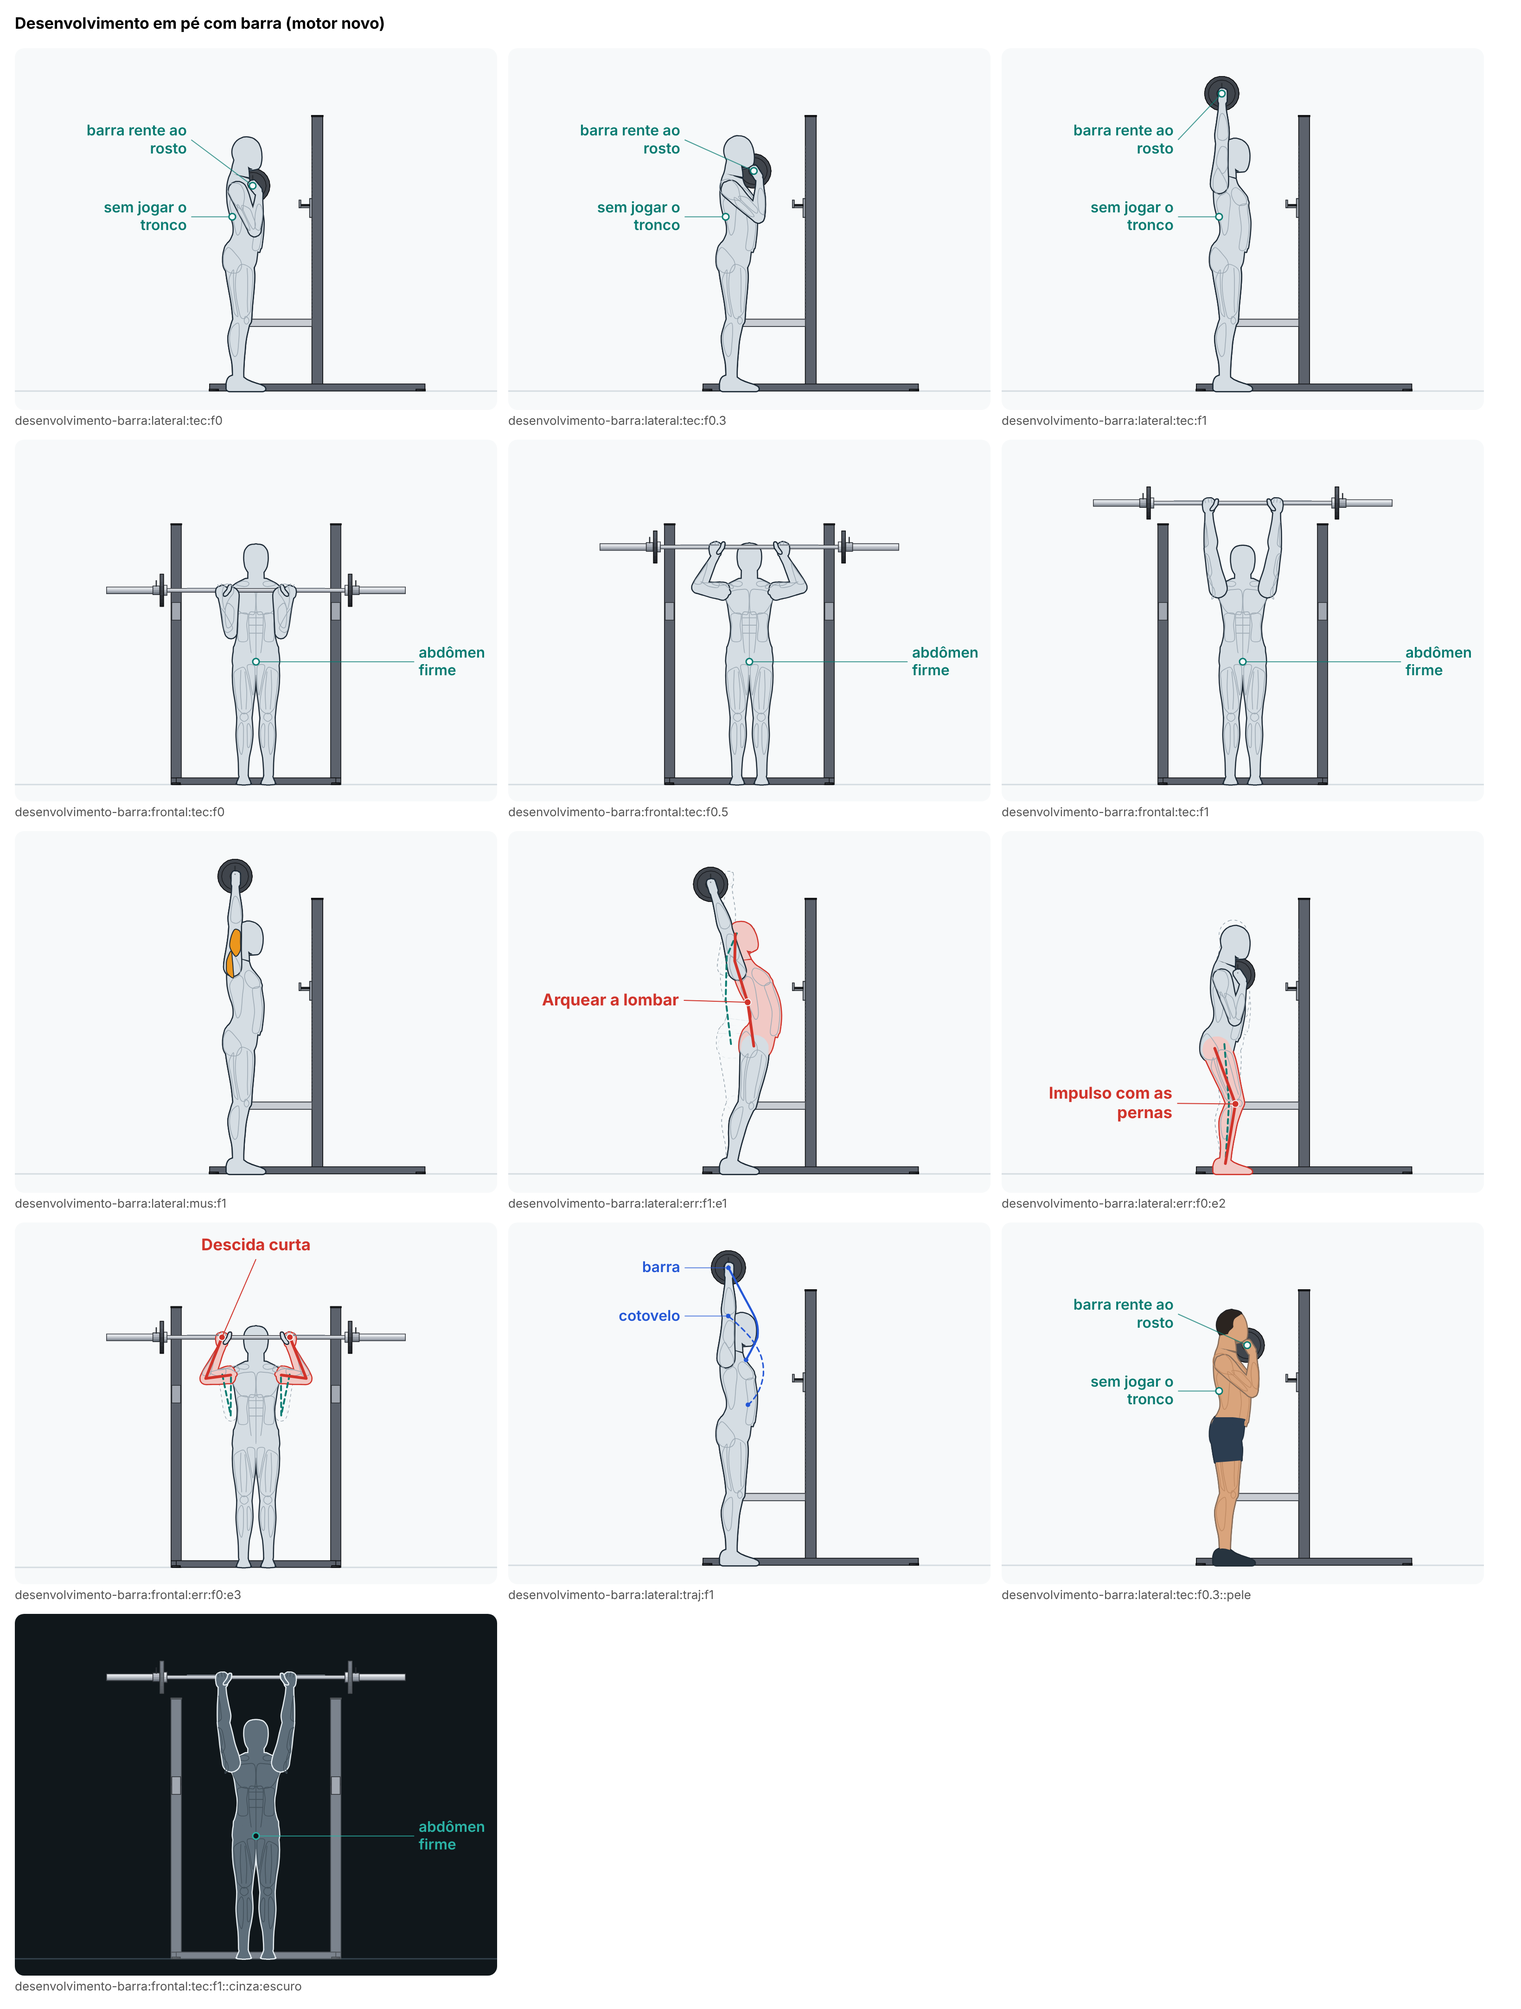
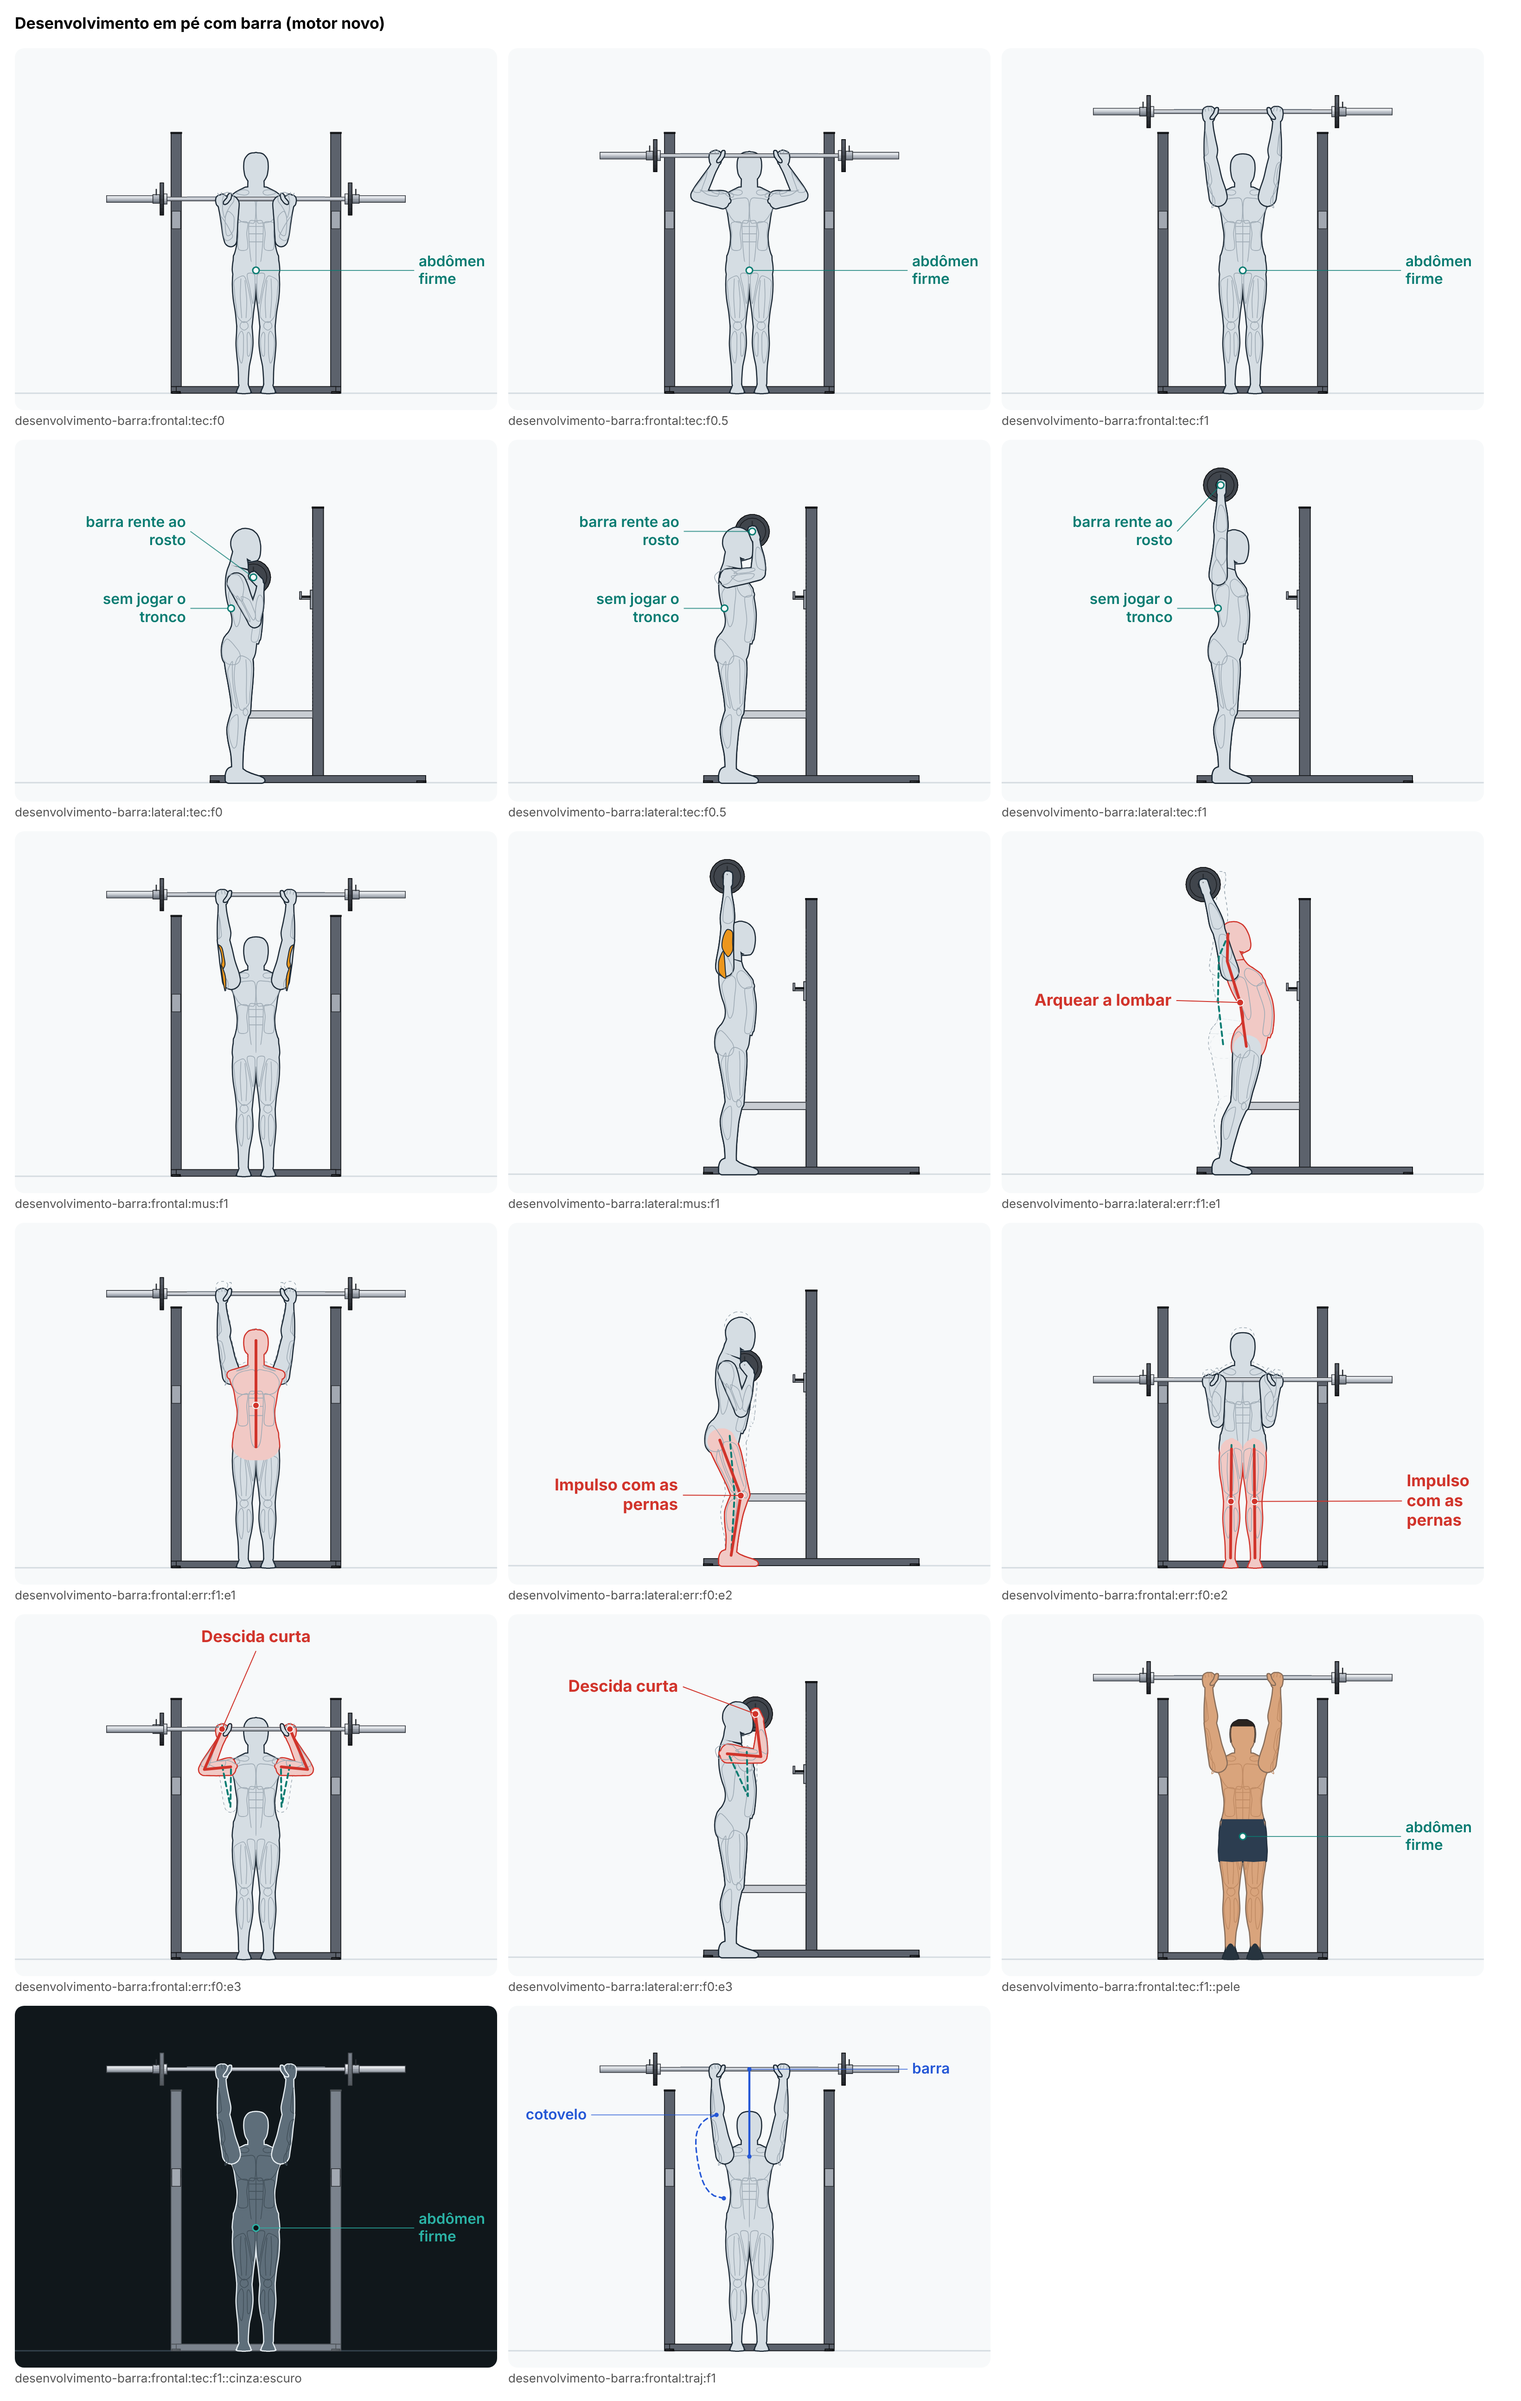
Apoia a barra do desenvolvimento em pé na pele densa do peito
Embaixo, a barra assentava entre os pontos de cada anel e entrava 1,3 cm no
peito. Agora ela para a 0,3 cm da pele densa, 1,3 cm mais à frente; o punho
dobra 45° e o cotovelo aponta menos para baixo, para os cotovelos ficarem um
pouco à frente da barra (0,8 cm). A regra barra-no-alto-do-peito mede na
pele densa quando a ficha tem barra.folgaNoPeito (as puxadas não mudam).
A ficha liga peso-fora-do-corpo.

Claude-Session: https://claude.ai/code/session_01YRzts8DBGbsca9onebcMt1

diff --git a/src/engine/novo/exercicios/desenvolvimento-barra.ts b/src/engine/novo/exercicios/desenvolvimento-barra.ts
@@ -26,7 +26,8 @@ import type { Corpo } from '../tabelas';
 import { obj } from '../tabelas';
 import { add, dirRef, mix, mul, noRef, norm, paraRef } from '../vec';
 import type { V3 } from '../vec';
-import { folgaDaBarra, primeiroToque } from './barra-nas-costas';
+import { primeiroToque } from './barra-nas-costas';
+import { folgaDaBarraNosPontos, peleDensa } from './com-barra-longa';
 import { dobrarOQuadril } from './dobrar-o-quadril';
 
 const F = fichaSchema.parse(ficha);
@@ -85,8 +86,10 @@ function emPe(corpo: Corpo, p: Pedido, local: V3, u: number): { e: Esq; alfa: nu
       centro = noRef(T, local);
       const braco = (k: Lado): PoseBraco => {
         const s = sinal(k);
-        // embaixo o cotovelo aponta para a frente e para baixo; em cima, para fora
-        const polo = norm(add(mul(dirRef(T, [s * 0.35, -0.55, 1]), 1 - u), mul(dirRef(T, [s, 0.1, 0.25]), u)));
+        // embaixo o cotovelo aponta para a frente e para baixo; em cima, para fora (correção de 19/11/2026: com a barra
+        // encostada no peito, e não dentro dele, ela fica 1,6 cm mais à frente, e o cotovelo, que apontava 0,55 para
+        // baixo, ficava 0,4 cm atrás dela; apontando 0,3 para baixo, com o punho dobrado 45°, fica 0,8 cm à frente)
+        const polo = norm(add(mul(dirRef(T, [s * 0.35, -f('cotovelo.poloParaBaixo'), 1]), 1 - u), mul(dirRef(T, [s, 0.1, 0.25]), u)));
         // a mão: a barra no meio da palma; embaixo o punho dobra para trás (a barra apoia na base da mão) e, em cima, fica
         // reto
         const b = f('punho.extensao') * (1 - u) * rad;
@@ -109,9 +112,17 @@ function pontas(corpo: Corpo): { baixo: V3; cima: V3 } {
   return calibragem(corpo, 'desenvolvimento-barra:pontas', () => {
     const y = -f('barra.peito');
     let zb = 14;
+    // Correção de 19/11/2026: a folga era medida contra os 12 pontos de cada anel do Boneco, e a barra assentava entre
+    // eles e entrava 1,3 cm no peito; agora é medida na pele densa (36 pontos por anel, com anéis entre os anéis), e a
+    // barra para a `barra.folgaNoPeito` cm dela
+    const meia = f('pegada.meia') - 4;
     for (let i = 0; i < 2; i++) {
       const e = emPe(corpo, certo(), [0, y, zb], 0).e;
-      zb = primeiroToque((z) => folgaDaBarra(e, noRef(e.torax, [0, y, z]), e.torax.x, ['tronco', 'pescoco'], f('pegada.meia') - 4).folga, 30, 0);
+      const pele = peleDensa(e, new Set(['tronco', 'pescoco']));
+      zb = primeiroToque((z) => {
+        const c = noRef(e.torax, [0, y, z]);
+        return folgaDaBarraNosPontos(pele, add(c, mul(e.torax.x, -meia)), add(c, mul(e.torax.x, meia))) - f('barra.folgaNoPeito');
+      }, 30, 0);
     }
     let cima: V3 = [0, 50, 0];
     for (let i = 0; i < 3; i++) {

diff --git a/src/engine/novo/regras/barra-no-suporte.ts b/src/engine/novo/regras/barra-no-suporte.ts
@@ -4,8 +4,9 @@
 import { f1, faixa } from '../conferir-util';
 import type { Regra } from '../conferir-util';
 import { folgaDaBarra, raioDaBarra } from '../exercicios/barra-nas-costas';
+import { folgaDaBarraNosPontos, peleDensa } from '../exercicios/com-barra-longa';
 import { obj } from '../tabelas';
-import { dist, dot, sub } from '../vec';
+import { add, dist, dot, mul, sub } from '../vec';
 
 const marca = (q: Parameters<Regra>[0][number], nome: string) => {
   const m = q.marcas[nome];
@@ -93,14 +94,20 @@ export const REGRAS_BARRA_NO_SUPORTE: Record<string, Regra> = {
     return { medido: `com a barra no peito, o topo das travas fica ${f1(folga)} cm abaixo dela, e a barra ${f1(zPonta - zb)} cm para dentro da ponta delas`, ok: folga > 0 && folga <= 4.5 && zb >= zFace && zb <= zPonta };
   },
   // ----- desenvolvimento em pé -----
-  'barra-no-alto-do-peito': (q, corpo) => {
+  'barra-no-alto-do-peito': (q, corpo, ex) => {
     const x = q[0]!;
     const b = marca(x, 'barra');
-    const fol = folgaDaBarra(x.esq, b, x.esq.torax.x, ['tronco', 'pescoco'], 21).folga;
+    // (acréscimo de 19/11/2026, só quando a ficha tem `barra.folgaNoPeito`: o desenvolvimento em pé com barra) a folga
+    // medida na pele densa, a mesma em que a animação apoia a barra; nos 12 pontos de cada anel, a barra que encosta na
+    // pele densa fica a 1,2 cm dos pontos, e a que encostava nos pontos entrava 1,3 cm no peito (regra peso-fora-do-corpo)
+    const densa = !!ex && 'barra.folgaNoPeito' in ex.ficha.param;
+    const fol = densa
+      ? folgaDaBarraNosPontos(peleDensa(x.esq, new Set(['tronco', 'pescoco'])), add(b, mul(x.esq.torax.x, -21)), add(b, mul(x.esq.torax.x, 21)))
+      : folgaDaBarra(x.esq, b, x.esq.torax.x, ['tronco', 'pescoco'], 21).folga;
     const ao = -dot(sub(b, x.esq.torax.o), x.esq.torax.y);
     const alto = corpo.m('altura.cervical') - corpo.m('altura.supraesternal');
     const frente = Math.min(x.esq.lado.R.cotovelo[2], x.esq.lado.L.cotovelo[2]) - b[2];
-    return { medido: `embaixo, a barra fica a ${f1(fol)} cm da pele do peito, ${f1(ao)} cm abaixo da base do pescoço ao longo do tronco (o alto do esterno fica a ${f1(alto)} cm); os cotovelos ficam ${f1(frente)} cm à frente dela`, ok: Math.abs(fol) <= 0.6 && Math.abs(ao - alto) <= 1.5 && frente > 0 };
+    return { medido: `embaixo, a barra fica a ${f1(fol)} cm da pele do peito${densa ? ' (pele densa)' : ''}, ${f1(ao)} cm abaixo da base do pescoço ao longo do tronco (o alto do esterno fica a ${f1(alto)} cm); os cotovelos ficam ${f1(frente)} cm à frente dela`, ok: Math.abs(fol) <= 0.6 && Math.abs(ao - alto) <= 1.5 && frente > 0 };
   },
   'barra-rente-ao-rosto': (q) => {
     let min = 1e9,

diff --git a/docs/revisoes/animacao-nova/lote-B1/desenvolvimento-barra.md b/docs/revisoes/animacao-nova/lote-B1/desenvolvimento-barra.md
@@ -65,3 +65,26 @@ Não há correção registrada para este exercício em `correcoes-ja-feitas.md`.
 - **O equilíbrio fica no limite** (o centro de massa anda até 4,9 cm à frente do meio do pé; o limite é 5 cm): é a barra indo para a frente em volta do rosto.
 - **O corpo fica menor no quadro de lado** que no agachamento: a barra em cima chega a 2,07 m e a anilha passa disso.
 - **O suporte é diferente do cartão de hoje** (gaiola × suporte aberto; ver `resumo-suporte.md`).
+
+## Correção de 19/11 (peso dentro do corpo)
+
+Depois do aviso do Gustavo na remada sem banco ("o halter tá puxando pra dentro do próprio corpo"), a regra `peso-fora-do-corpo` (a superfície do peso contra o volume do corpo, fora as mãos que seguram, no ciclo e em cada erro em 9 instantes; tolerância de 0,5 cm) e a checagem de pesos da conferência da pintura foram passadas em todas as animações com peso livre. Nesta, **embaixo, a barra entrava 1,3 cm no peito** (no começo do ciclo e dos erros "Arquear a lombar" e "Impulso com as pernas"). Ela era apoiada no primeiro toque contra os 12 pontos de cada anel do Boneco, e assentava entre eles.
+
+**A mudança.**
+
+- O primeiro toque passa a ser medido na pele densa (36 pontos por anel, com anéis entre os anéis), e a barra para a 0,3 cm dela (`barra.folgaNoPeito`): 1,3 cm mais à frente no tórax. Medida pela regra `peso-fora-do-corpo`, ela encosta sem entrar.
+- Com a barra mais à frente, os cotovelos ficavam 0,4 cm atrás dela (a ficha pede "um pouco à frente"). O punho dobra 45°, e não 40° (`punho.extensao`; medido, 53,6°, dentro da amplitude normal), e embaixo o cotovelo aponta 0,3 para baixo, e não 0,55 (`cotovelo.poloParaBaixo`): eles ficam 0,8 cm à frente da barra (eram 1,3 cm).
+- A regra `barra-no-alto-do-peito` (`regras/barra-no-suporte.ts`) ganhou um acréscimo, ligado só quando a ficha tem `barra.folgaNoPeito`: mede a folga na pele densa, a mesma em que a animação apoia a barra. Nos pontos dos anéis, a barra encostada na pele densa fica a 1,2 cm deles, e a regra (até 0,6 cm) falhava. As puxadas que usam a mesma regra não têm o campo e não mudam.
+- O equilíbrio e o lugar do suporte mudam um pouco com a barra (o suporte, 1,1 cm).
+
+| medido (homem) | antes | depois |
+|---|---|---|
+| a barra entra no peito (embaixo) | 1,3 cm | 0 cm (a 0,3 cm da pele densa) |
+| os cotovelos à frente da barra (embaixo) | 1,3 cm | 0,8 cm |
+| extensão do punho (medida) | 47° | 53,6° |
+
+A ficha liga `peso-fora-do-corpo`: medida no estado de antes, ela falha (1,3 cm, no tronco, no começo do ciclo); no de agora, passa (o peso não entra no corpo). O antes e depois está em `correcao-das-antigas/desenvolvimento-barra-peso.png`; os quadros grandes foram regravados (`quadros/desenvolvimento-barra.png`) e olhados vista por vista, quadro a quadro e erro a erro, nos dois lados do corpo. A conferência automática dá **1 falha e 2 avisos** (antes: 2 falhas e 2 avisos, entre elas a de pesos).
+
+**O que ainda não ficou bom.**
+- A falha que sobra é de antes e não é do peso: de frente, no começo do erro "Impulso com as pernas", os braços são pintados por cima da barra, que está na frente deles (14 cm²). Não corrigi.
+- Os cotovelos ficam um pouco mais para dentro embaixo (de 20,2 para 18,8 cm do meio do corpo).
